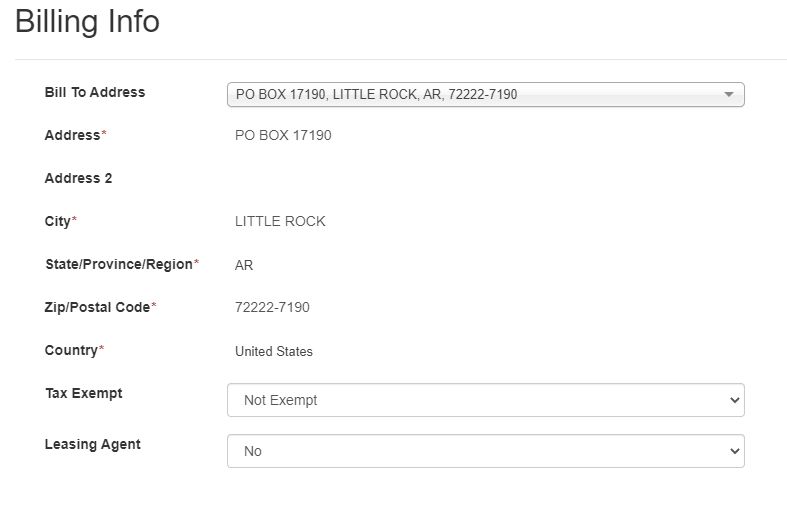
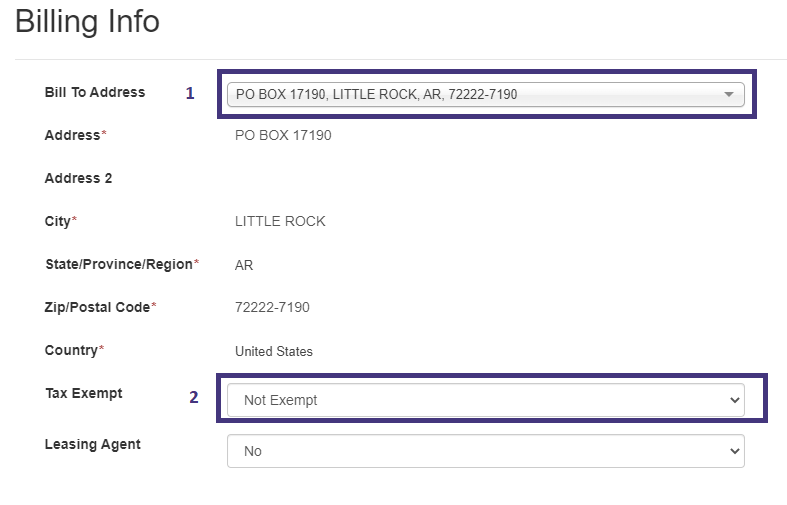
Added Billing page section

Changed region(s): [[0.244, 0.7129, 0.9759, 0.8614], [0.2745, 0.1188, 0.9759, 0.2376]]

diff --git a/README.md b/README.md
@@ -9,7 +9,7 @@ A visual inventory of React components used inside the Quote Manager application
 [Cart Page _(/cart)_](#cart-page-cart)  
 [Warranty Page _(/checkout/warranty)_](#warranty-page-checkoutwarranty)  
 [Shipping Page _(/checkout/shipping)_](#shipping-page-checkoutshipping)  
-Billing Page _(/checkout/billing)_  
+[Billing Page _(/checkout/billing)_](#billing-page-checkoutbilling)
 Order Review Page _(/checkout/review)_
 
 # General Components
@@ -87,7 +87,7 @@ Status: **Not Started**
 
 2. Input (**In Design System**)
 
-3. Dropdown (**In Design System**)
+3. Dropdown Primary (**In Design System**)
 
 4. Tabs (**In Design System**)
 
@@ -198,6 +198,7 @@ Components used in Checkout Shipping page of Quote Manager on the My Calix Store
 
 - [Shipment Address Form](#shipment-address-form)
 - [Multiple Shipment Scheduler](#multiple-shipment-scheduler)
+- [Shipping Contact Info Form](#shipping-contact-info-form)
 
 ## Shipment Address Form
 
@@ -207,7 +208,7 @@ Status: **In Code Review**
 
 ### Sub-Components
 
-1. Dropdown (**In Design System**)
+1. Dropdown Secondary (**In Design System**)
 2. Input (**In Design System**)
 3. Rounded Button (**In Design System**)
 
@@ -223,7 +224,46 @@ Status: **In Code Review**
 2. Item Row (**In Code Review**)
 3. Input with Icon (**In Code Review**)
 
-#44367d
+## Shipping Contact Info Form
+
+![Shipping Contact Info Form](/Quote%20Manager/checkout/shipping/shipping-contact-info-form.png)
+
+Status: **In Code Review**
+
+### Sub-Components
+
+1. Input (**In Design System**)
+2. Dropdown (**In Design System**)
+
+<!-- #44367d
 Status: **In Code Review**
 (**In Design System**)
-(**In Code Review**)
+(**In Code Review**) -->
+
+# Billing Page (checkout/billing)
+
+Components used in Checkout Billing page of Quote Manager on the My Calix Store.
+
+- [Billing Address Form](#billing-address-form)
+- [Purchase Order Info Form](#purchase-order-info-form)
+
+## Billing Address Form
+
+![Billing Address Form](/Quote%20Manager/checkout/billing/billing-address-form.png)
+
+Status: **In Code Review**
+
+### Sub-Components
+
+1. Dropdown Secondary (**In Design System**)
+2. Dropdown Primary (**In Design System**)
+
+## Purchase Order Info Form
+
+![Purchase Order Info Form](/Quote%20Manager/checkout/billing/po-info-form.png)
+
+Status: **In Code Review**
+
+### Sub-Components
+
+1. Input(**In Design System**)
